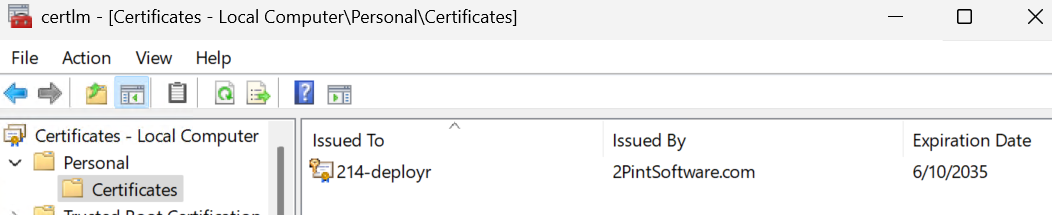
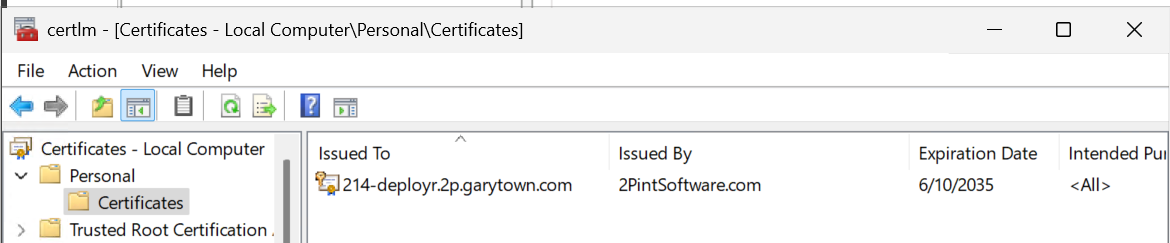
25.7.11.10.35

diff --git a/DeployR/DeployRSetup.md b/DeployR/DeployRSetup.md
@@ -2,6 +2,8 @@
 
 This is my lab setup, super simple.
 
+I've already installed StifleR 2.14 but just slightly different then the guide I posted in the StifleR folder her on GitHub.  This server is Workgroup, so the certs I'm using are Self Signed based on a CA cert that comes with the 2PXE server from 2Pint Software.  If you're looking for help with StilfeR Setup, check out the StifleR folder here on GitHub
+
 - Windows Server 2025 Standard
   - HyperV VM | 8GB RAM | C: = 120GB | D: = 400 GB (DeployR Content Items)
 - Name: 214-DeployR
@@ -48,6 +50,9 @@ New-NetFirewallRule -DisplayName "2Pint DeployR HTTP 7282" -Direction Inbound -L
 
 NOTE:  I installed 2PXE on the same server, which created self-signed certificates using the 2PintSoftware CA.  I then used Intune to push the 2PintSoftware CA Cert to all of my devices.
 2Pint CA Cert located: "C:\Program Files\2Pint Software\2PXE\x64\ca.crt"
+
+I set 2PXE to override and create the cert based on the FQDN, then deleted the certificate from Personal Certificates, and the Certificates folder from C:\ProgramData\2Pint Software\2PXE\Certificates, and restarted the 2PXE service so it would regenerate those certs for me based on the 2PintSoftware CA included in 2PXE
+![Image01](media/DRCert01-iPXEOverride.png)
 
  I setup IIS to use the certificate in the
 ![Image01](media/DRCert01.png)
